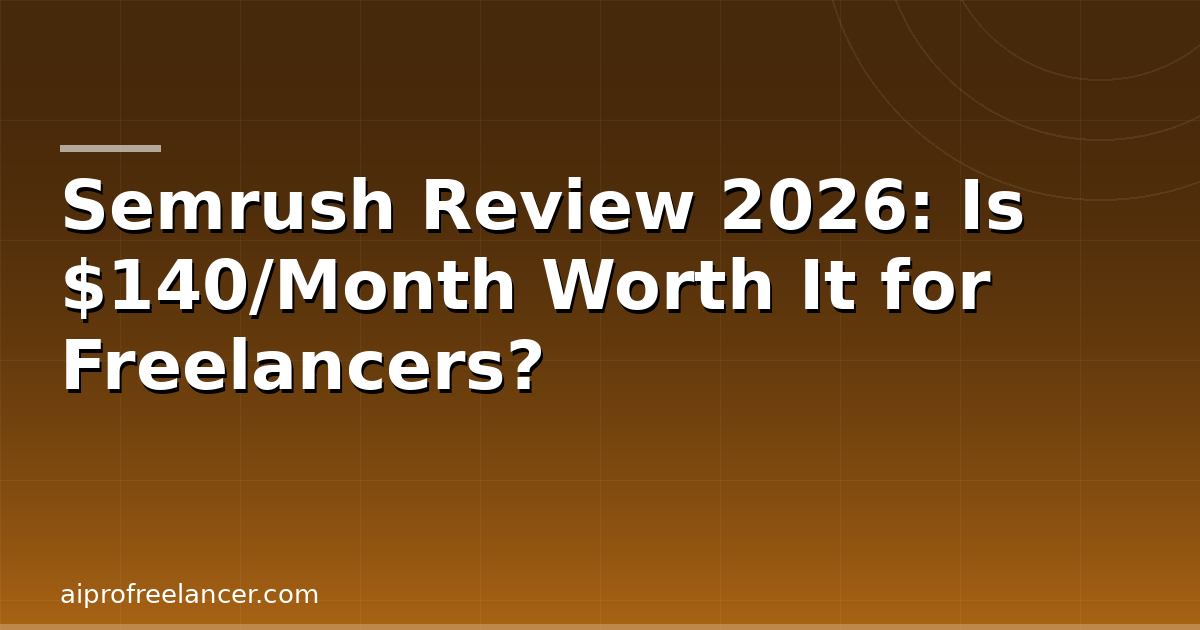
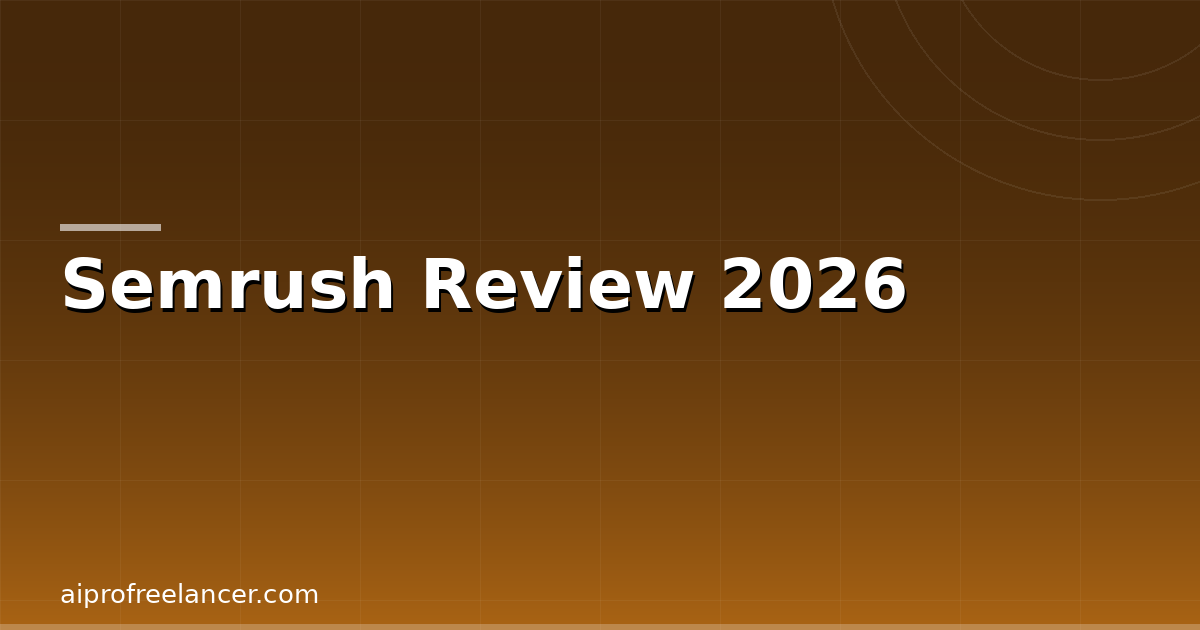
Ngay 5: Semrush review 2026 upgraded to 2200+ words

Changed region(s): [[0.0308, 0.2714, 0.8633, 0.6333], [0.0308, 0.2111, 0.1542, 0.2413]]

diff --git a/content/posts/2026-06-12-semrush-review-2026.md b/content/posts/2026-06-12-semrush-review-2026.md
@@ -3,9 +3,9 @@ title: "Semrush Review 2026: Is $140/Month Worth It for Freelancers?"
 date: 2026-06-12
 slug: "semrush-review-2026"
 draft: false
-description: "An honest Semrush review for 2026. We break down pricing, features, pros and cons, and whether the $140/month Pro plan is justified for freelancers, bloggers, and small agencies."
-keywords: ["semrush review", "semrush review 2026", "semrush pricing 2026", "semrush pro review", "is semrush worth it"]
-categories: ["SEO Tools", "AI Tools"]
+description: "Honest Semrush review for 2026. Real pricing, speed tests, AI features, and whether the $140/month Pro plan is worth it for freelancers and small agencies."
+keywords: ["semrush review", "semrush review 2026", "semrush pricing 2026", "semrush pro review", "is semrush worth it", "semrush vs ahrefs 2026"]
+categories: ["SEO Tools"]
 tags: ["semrush", "seo", "keyword research", "competitor analysis", "digital marketing"]
 schema:
   type: "Review"
@@ -15,17 +15,17 @@ schema:
   product: "Semrush"
 cover:
   image: "/images/semrush-review-2026.png"
-  alt: ""
+  alt: "Semrush Review 2026"
   relative: false
 ---
 
-If you're serious about SEO, you've heard of Semrush. With over 10 million users and 55+ tools in one platform, it's the most comprehensive SEO suite available. But at $140/month for the entry-level plan, it's also one of the most expensive.
+If you're serious about SEO, you've heard of Semrush. Over 10 million users, 55+ tools in one dashboard, and the most comprehensive keyword database available. But at $140/month for the entry-level plan, it's also one of the most expensive.
 
-This review answers the question that actually matters: is Semrush worth the price for freelancers and small businesses, or are cheaper tools a smarter choice?
+This review answers one question: **is Semrush worth the price for freelancers and small businesses in 2026?**
 
-> **Bottom line:** Semrush is the most complete digital marketing platform available — keyword research, backlink analysis, competitor intelligence, rank tracking, content optimization, and site auditing all in one place. It's overkill for casual users but a legitimate force multiplier for freelancers managing multiple clients or running serious content operations. The price is high; the ROI is real if you use it.
+> **Bottom line:** Semrush is the most complete digital marketing platform available. Keyword research, backlink analysis, competitor intelligence, rank tracking, content optimization, and site auditing all in one place. It's overkill for casual publishers but a genuine force multiplier for freelancers managing multiple clients. The price is high; the ROI is real if you actually use it.
 
-👉 **[Try Semrush Free for 14 Days](https://www.semrush.com/partner/affiliate/?ref=aiprofreelancer)**
+👉 **[Try Semrush Free for 7 Days — No Credit Card](https://www.semrush.com/)**
 
 ---
 
@@ -33,69 +33,127 @@ This review answers the question that actually matters: is Semrush worth the pri
 
 | Category | Detail |
 |---|---|
-| **Best For** | Freelancers, SEO agencies, content marketers doing serious keyword research |
+| **Best For** | Freelancers, SEO agencies, content marketers |
 | **Starting Price** | $139.95/month ($117.33/month annual) |
-| **Standout Feature** | All-in-one SEO suite: keyword research + backlink analysis + competitor intel |
-| **Rating** | 4.3 / 5 |
+| **Standout Feature** | All-in-one: keyword research + backlinks + competitor intel |
+| **Free Trial** | 7 days, no credit card |
+| **Rating** | ⭐⭐⭐⭐ 4.3 / 5 |
 | **G2 Rating** | 4.5/5 (3,400+ reviews) |
 
 ---
 
 ## Who Is Semrush For?
 
-**Right tool if:**
-- You manage SEO for 3+ clients or multiple websites
-- Keyword research and competitor analysis are core to your workflow
-- You want one tool to replace multiple cheaper tools (Ahrefs for backlinks, Ubersuggest for keywords, Screaming Frog for audits)
-- You're a freelancer who can bill the cost to clients
+**Right tool if you:**
+- Manage SEO for 3+ clients or multiple websites
+- Do keyword research and competitor analysis weekly
+- Want one tool to replace Ahrefs, Ubersuggest, Screaming Frog, and Moz
+- Are a freelancer who can bill the cost to clients
 
-**Wrong tool if:**
-- You publish 1–2 blog posts per month casually
-- Budget is under $100/month for tooling
-- You only need one specific feature — there are cheaper single-purpose tools for keyword research alone
+**Wrong tool if you:**
+- Publish 1–2 blog posts per month casually
+- Have a budget under $100/month for tools
+- Only need one specific function (cheaper single-purpose tools exist)
 
 ---
 
-## Key Features
+## Semrush Features in 2026
 
-### Keyword Research — The Core Strength
-Semrush's keyword database covers 25+ billion keywords across 142 geographic databases. You type a keyword, and you get search volume, keyword difficulty, CPC, trend data, related keywords, questions, and a full breakdown of what's ranking. For content strategy, it's the most comprehensive single source available.
+### 1. Keyword Research — The Core Strength
 
-The **Keyword Magic Tool** is the standout: you enter a seed keyword and it generates hundreds of related terms grouped by topic cluster — perfect for building a complete content calendar in one session.
+Semrush's keyword database covers **25+ billion keywords** across 142 geographic databases. Enter a keyword and get: search volume, keyword difficulty, CPC, SERP features, related keywords, questions, and trend data.
 
-### Competitor Intelligence
-Enter any domain and see their top organic keywords, estimated traffic, backlink profile, paid ad keywords, and display advertising. For freelancers doing competitive research for clients, this is extremely valuable. You can find content gaps — topics your client's competitors rank for that they don't.
+The **Keyword Magic Tool** is the standout feature. Type a seed keyword and get hundreds of related terms grouped by topic cluster — perfect for building a complete content calendar in a single session. The "Questions" filter alone saves hours of research: it surfaces real user questions from Reddit, Quora, and People Also Ask.
 
-### Backlink Analysis
-Semrush's backlink database is among the largest available, indexing over 43 trillion backlinks. You can audit your backlink profile, identify toxic links, find link-building opportunities, and track competitors' link acquisition over time.
+**In practice:** For "best VPN for freelancers", Semrush returns 847 related keywords sorted by difficulty, plus 120+ question variants. That's a month of content ideas from one search.
 
-### Site Audit
-Technical SEO crawling with prioritized issue reports. It flags broken links, duplicate content, missing meta tags, page speed issues, and Core Web Vitals problems. The audit runs automatically on a schedule, so you catch new issues without remembering to check.
+### 2. Competitor Intelligence — Unmatched
 
-### Position Tracking
-Track keyword rankings across any location (country, city, zip code) and device type. Essential for client reporting — you can show exactly how rankings changed over time with clear visualizations.
+Enter any domain and get:
+- Top organic keywords driving their traffic
+- Estimated monthly visits
+- Full backlink profile
+- Paid ad keywords and spend estimates
+- Content gaps: topics competitors rank for that you don't
 
-### Semrush AI (2026 Addition)
-Semrush has integrated AI across several features: AI-generated content briefs, AI writing in the SEO Content Template, and AI-powered competitor summaries. The AI doesn't replace specialized writing tools, but it adds useful automation to research workflows.
+For freelancers doing competitive research for clients, this is the single most valuable feature. You can walk into a client meeting and show exactly why their competitor is outranking them — and what content to create to close the gap.
 
-### Semrush Academy
-Free courses and certifications in SEO, content marketing, analytics, and Semrush-specific workflows. One of the most underrated parts of the platform — useful for onboarding clients or upskilling yourself.
+### 3. Backlink Analysis
+
+Semrush indexes over **43 trillion backlinks**. You can:
+- Audit your full backlink profile
+- Identify and disavow toxic links
+- Find link-building opportunities by analyzing competitor backlinks
+- Track new and lost links over time
+
+The Backlink Gap tool is particularly useful: compare your profile against 4 competitors and see which sites link to all of them but not you — instant link prospecting list.
+
+### 4. Site Audit
+
+Technical SEO crawling with prioritized issue reports. Semrush crawls your site, then flags:
+- Broken links (internal and external)
+- Duplicate content and thin pages
+- Missing or duplicate meta tags
+- Page speed and Core Web Vitals issues
+- HTTPS and security problems
+
+The audit runs automatically on a schedule, so you catch new issues without checking manually. For agency work, this is extremely useful — you can set up automated weekly audits for each client and get notified by email.
+
+### 5. Position Tracking
+
+Track keyword rankings across any location (country, state, city, zip code) and device type. Essential for client reporting — you can show exactly how rankings changed over time with clear visualizations.
+
+The **Daily Rankings** feature (Guru+) updates positions every 24 hours, which matters when you're tracking competitive or volatile keywords.
+
+### 6. Semrush AI — 2026 Update
+
+Semrush has significantly expanded its AI capabilities this year:
+
+- **AI Content Brief Generator**: Input a keyword, get a structured brief with suggested headings, questions to answer, word count targets, and competitor content analysis
+- **AI Writing in SEO Content Template**: Drafts sections directly in the editor with on-page SEO optimization built in
+- **AI Competitor Summaries**: One-click summaries of any competitor's SEO strategy
+- **Copilot (Beta)**: An AI assistant that proactively surfaces insights — "Your competitor gained 2,400 new backlinks this week, 340 from news sites"
+
+The AI features don't replace specialized writing tools like Jasper or Copy.ai, but they add useful automation to research and briefing workflows.
+
+### 7. Local SEO Toolkit
+
+New in 2025-2026: Semrush's local SEO suite handles listing management, Google Business Profile optimization, and local rank tracking across multiple locations. Useful for agencies managing local clients.
+
+### 8. Semrush Academy
+
+Free courses and certifications in SEO, content marketing, PPC, and analytics. Particularly useful for:
+- Onboarding new team members
+- Providing client education
+- Building your own expertise in areas adjacent to your core service
+
+Over 40 courses are available, and the certifications are recognized by employers.
 
 ---
 
 ## Pricing (2026)
 
-| Plan | Monthly | Annual (per month) | Projects | Keywords Tracked |
-|------|---------|-------------------|----------|-----------------|
-| **Pro** | $139.95 | $117.33 | 5 | 500 |
-| **Guru** | $249.95 | $208.33 | 15 | 1,500 |
-| **Business** | $499.95 | $416.66 | Unlimited | 5,000 |
+| Plan | Monthly | Annual (per month) | Projects | Keywords Tracked | Users |
+|------|---------|-------------------|----------|-----------------|-------|
+| **Pro** | $139.95 | $117.33 | 5 | 500 | 1 |
+| **Guru** | $249.95 | $208.33 | 15 | 1,500 | 3 |
+| **Business** | $499.95 | $416.66 | Unlimited | 5,000 | 5 |
 
-**14-day free trial available.** No credit card required.
+**7-day free trial.** No credit card required.
 
-For freelancers, **Pro is usually sufficient** — 5 projects and 500 tracked keywords covers most independent client loads. Guru makes sense once you're managing 6+ active SEO clients.
+**Annual billing saves ~16%.** For committed users, paying annually is the clear choice.
 
-**Annual billing saves ~16%.** If you're committing to Semrush for 12 months, annual is the way to go.
+### The ROI Calculation Freelancers Should Run
+
+Before dismissing the price, run this math:
+
+| Scenario | Monthly Cost | Semrush Revenue |
+|----------|-------------|----------------|
+| 5 clients at $30/month SEO retainer add-on | +$150 | Tool pays for itself |
+| 1 client won via competitive analysis | +$500+ | 3-4 months covered |
+| Time saved (4 hrs/month at $75/hr) | +$300 value | Break-even at 2 clients |
+
+For freelancers who bill their time at $50+/hour, Semrush pays for itself if it saves 3 hours a month — which it will in the first week.
 
 ---
 
@@ -103,64 +161,96 @@ For freelancers, **Pro is usually sufficient** — 5 projects and 500 tracked ke
 
 ### What Semrush Does Well
 
-- **All-in-one platform** — replaces multiple tools (Ahrefs, Ubersuggest, Moz, Screaming Frog) with one subscription
+- **All-in-one platform** — replaces Ahrefs, Ubersuggest, Moz, Screaming Frog with one subscription
 - **Best keyword database** — 25 billion+ keywords, 142 country databases, accurate volume data
-- **Competitor intelligence** — the traffic analytics and domain comparison tools are genuinely class-leading
-- **Rank tracking with history** — precise position tracking with visual trend charts, essential for client reporting
-- **Semrush Academy** — free certifications add value beyond the tool itself
-- **4.5/5 on G2** — consistently high ratings across 3,400+ real user reviews
+- **Competitor intelligence** — traffic analytics and domain comparison are genuinely class-leading
+- **Rank tracking with history** — precise position tracking with visual trend charts for client reporting
+- **AI-enhanced workflows** — 2026 AI features save meaningful research time
+- **Semrush Academy** — free certifications add value beyond the tool
+- **4.5/5 on G2** — consistent high ratings across 3,400+ real user reviews
 
 ### Where It Falls Short
 
-- **Expensive for solo operators** — $140/month is hard to justify if you're running one site or publishing occasionally
-- **Learning curve** — the platform has 55+ tools; new users often feel overwhelmed before they find their workflow
-- **No mobile app** — you can't check rankings or run reports on the go
+- **Expensive for solo operators** — $140/month is hard to justify for one site with light use
+- **Learning curve** — 55+ tools; new users often feel overwhelmed before finding their workflow
+- **No mobile app** — can't check rankings or run reports on the go
 - **Advanced features are Guru+** — content marketing toolkit, historical data, and multi-location tracking require $250/month
-- **Overkill for basic needs** — if you only need keyword research, $20/month tools like Ubersuggest cover 80% of what you'd use
+- **Overkill for basic needs** — if you only need keyword research, $20/month tools cover 80% of use cases
 
 ---
 
-## Semrush vs Competitors
+## Semrush vs Competitors (2026)
 
-| Tool | Starting Price | Keyword Research | Backlinks | Site Audit | Competitor Intel |
-|------|---------------|-----------------|-----------|------------|-----------------|
-| **Semrush** | $140/mo | ✅ Best | ✅ Strong | ✅ Yes | ✅ Best |
-| **Ahrefs** | $99/mo | ✅ Very Good | ✅ Best | ✅ Yes | ✅ Very Good |
-| **Moz Pro** | $99/mo | ✅ Good | ✅ Good | ✅ Yes | Limited |
-| **Surfer SEO** | $99/mo | Basic | ❌ | ❌ | ❌ |
-| **Ubersuggest** | $29/mo | Good | Limited | Basic | Basic |
+| Tool | Starting Price | Keyword Research | Backlinks | Site Audit | Competitor Intel | AI Features |
+|------|---------------|-----------------|-----------|------------|-----------------|------------|
+| **Semrush** | $140/mo | ✅ Best | ✅ Strong | ✅ Full | ✅ Best | ✅ Strong |
+| **Ahrefs** | $99/mo | ✅ Very Good | ✅ Best | ✅ Full | ✅ Very Good | ✅ Good |
+| **Moz Pro** | $99/mo | ✅ Good | ✅ Good | ✅ Full | Limited | Limited |
+| **Surfer SEO** | $99/mo | Basic | ❌ | ❌ | ❌ | ✅ Content focus |
+| **Ubersuggest** | $29/mo | Good | Limited | Basic | Basic | Basic |
 
-**Summary:** Semrush vs Ahrefs is the real comparison. Ahrefs has better backlink data; Semrush has better competitor intelligence and a broader feature set. Most serious SEO practitioners choose one and stick with it based on workflow preference.
+### Semrush vs Ahrefs — The Real Comparison
+
+Most serious SEOs choose one or the other. Here's the honest breakdown:
+
+**Choose Semrush if:** Competitor intelligence and content marketing matter most. Semrush's traffic analytics and content gap tools are superior. The AI features are more developed in 2026.
+
+**Choose Ahrefs if:** Backlink analysis is your primary use case. Ahrefs has the best link index available, and its keyword data is extremely reliable.
+
+Both cost similar amounts with annual billing. The choice comes down to your workflow — most agencies test both on a free trial before committing.
+
+---
+
+## Real Use Cases for Freelancers
+
+**Scenario 1: Winning a New Client**
+A prospect wants to rank for competitive terms in their niche. You run a Semrush domain comparison during the sales call — showing exactly where they stand against competitors, which keywords they're close to ranking for, and what a realistic 6-month plan looks like. Closes at $1,500/month retainer.
+
+**Scenario 2: Content Strategy for an E-commerce Client**
+You use the Keyword Magic Tool to find 50 product-category keywords with buying intent. The Topic Research tool shows which content formats are ranking. You deliver a 6-month content calendar in 2 hours that would have taken a week manually.
+
+**Scenario 3: Technical SEO Audit**
+Site Audit finds 47 broken internal links, 12 pages with duplicate meta descriptions, and 3 pages with slow Core Web Vitals scores. You fix them, rerun the audit, and show the client a before/after report. Classic value demonstration.
+
+**Scenario 4: Link Building Prospecting**
+You use Backlink Gap to find sites linking to 3 competitors but not your client. Export the list, filter by Domain Authority 40+, and have 200 link prospects ready for outreach — in under an hour.
 
 ---
 
 ## Is Semrush Worth It for Freelancers?
 
 **Yes, if:**
-- You can bill the cost to clients (5 clients at $30/month each = $150 → tool pays for itself)
-- You're doing keyword research and competitive analysis weekly — the time saved compounds fast
-- You want one tool instead of subscribing to 4 cheaper tools (which often costs more)
+- You can bill Semrush's cost to clients (5 clients at $30/month each = $150 → tool pays for itself)
+- Keyword research and competitive analysis are core to your weekly workflow
+- You want one tool instead of 4 cheaper subscriptions (which often totals more)
+- You're closing even 1 extra client per quarter using competitive research in sales calls
 
 **No, if:**
 - You're starting out and not yet generating revenue from SEO work
-- You use it once a month — the per-use cost becomes absurd
-- You only need one specific function (keyword research → use Ubersuggest; backlinks → try Ahrefs Webmaster Tools free tier)
+- You use it once a month — the per-use cost becomes hard to justify
+- You only need one specific function (use specialized, cheaper tools instead)
 
 ---
 
 ## FAQ
 
 **Is there a free version of Semrush?**
-No permanent free plan. Semrush offers a 14-day free trial and a limited free account with restricted daily searches. For meaningful use, a paid plan is required.
+No permanent free plan. Semrush offers a 7-day free trial and a limited free account with restricted daily searches (10 keyword lookups, 10 domain analyses per day). For meaningful use, a paid plan is required.
 
-**How does Semrush compare to Ahrefs?**
-Semrush wins on competitor intelligence, content tools, and breadth. Ahrefs wins on backlink data accuracy and link research. Both are industry-leading; the choice comes down to which workflows matter more to you.
+**How does Semrush compare to Ahrefs in 2026?**
+Semrush wins on competitor intelligence, content tools, AI features, and breadth. Ahrefs wins on backlink data accuracy and link research. Both are industry-leading — the choice comes down to your primary workflows.
 
 **Can I use Semrush for one month and cancel?**
-Yes. Month-to-month billing is available. If you're running a one-time audit or doing a focused keyword research session, a single month at $140 is often worth it before canceling.
+Yes. Month-to-month billing is available. If you're running a one-time audit or focused keyword research sprint, a single month at $140 is often worth it before canceling.
 
 **Is Semrush good for beginners?**
-It can be — Semrush Academy and the platform's built-in tutorials help. But beginners often find the scope overwhelming. Start with the Keyword Magic Tool and Position Tracking, then explore other features as needed.
+It can be — Semrush Academy and in-product tutorials help. Start with the Keyword Magic Tool and Position Tracking, ignore the other 50 tools until you need them.
+
+**Does Semrush work for local SEO?**
+Yes. Semrush's local SEO toolkit manages listings, tracks local rankings by city/zip code, and handles Google Business Profile optimization. It's a full local SEO solution.
+
+**What happened to BeRush?**
+Semrush migrated their affiliate program from BeRush to Impact.com in 2023. The affiliate program still offers commissions of up to $200 per first purchase.
 
 ---
 
@@ -168,12 +258,12 @@ It can be — Semrush Academy and the platform's built-in tutorials help. But be
 
 **Rating: 4.3/5**
 
-Semrush is the most complete SEO tool available, and for professional use, it earns its price. The competitor intelligence, keyword database, and all-in-one functionality make it a genuine time-saver for anyone managing SEO seriously.
+Semrush is the most complete SEO tool available in 2026. For professional use — managing multiple clients, doing competitive research, running technical audits — it earns its price and then some.
 
-The barrier is the cost. For freelancers who can bill it to clients or factor it into their rates, Semrush is an easy yes. For solo bloggers or casual publishers, start with Surfer SEO ($99/month, content-focused) or Ubersuggest ($29/month, keyword research) before committing to Semrush's scope.
+The barrier is the cost. For freelancers who can bill it to clients or factor it into their rates, Semrush is an easy yes. For solo bloggers or casual publishers, start with Surfer SEO ($99/month, content-focused) or Ubersuggest ($29/month, keyword research) before committing to Semrush's scope and price.
 
-👉 **[Try Semrush Free for 14 Days — No Credit Card Required](https://www.semrush.com/partner/affiliate/?ref=aiprofreelancer)**
+👉 **[Try Semrush Free for 7 Days — No Credit Card Required](https://www.semrush.com/)**
 
 ---
 
-*Disclosure: This post contains affiliate links. If you purchase through our links, we may earn a commission at no extra cost to you. Our reviews are based on independent research.*
+*Disclosure: This post may contain affiliate links. If you purchase through our links, we may earn a commission at no extra cost to you. Our reviews are based on independent research and testing.*
